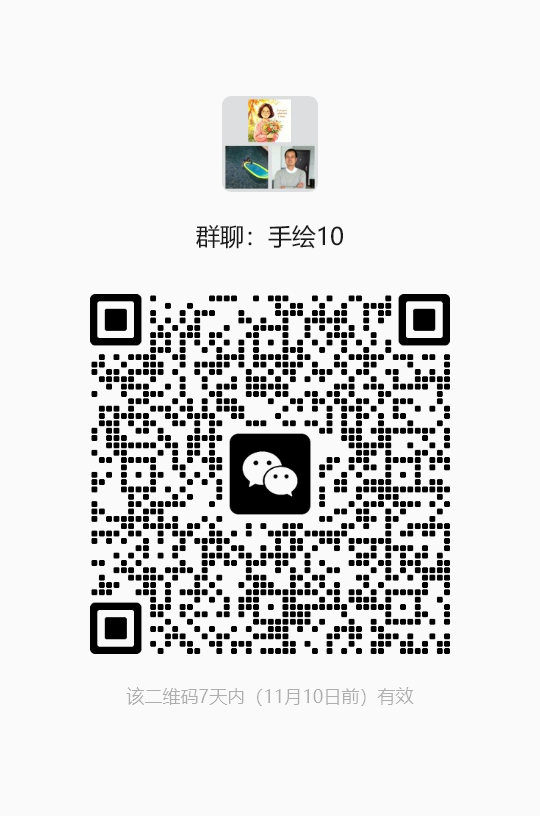
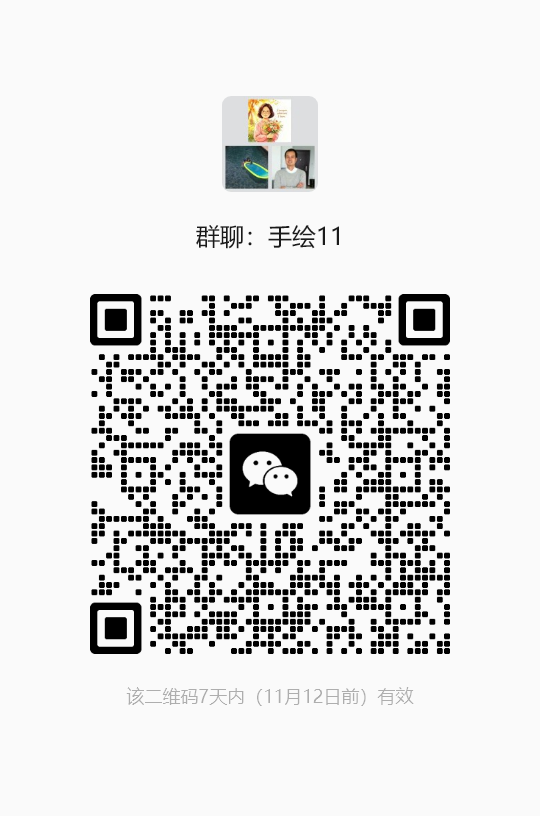
feat(gallery): renew wechat group 11 qr code (valid until 2026-11-12)

diff --git a/gallery/assets.html b/gallery/assets.html
@@ -788,7 +788,7 @@ dialog#wechat-modal p { margin: 0 0 16px; font-size: 13.5px; color: #665f57; }
     <div class="qr-card">
       <span class="qr-tag" data-i18n="wechatGroupLabel">① 优先加入群聊</span>
       <img src="../images/wechat_group.png" alt="微信交流群二维码">
-      <span class="qr-tip">群聊：手绘10</span>
+      <span class="qr-tip">群聊：手绘11</span>
     </div>
     <div class="qr-card">
       <span class="qr-tag" data-i18n="wechatPersonalLabel">② 个人微信备用</span>
